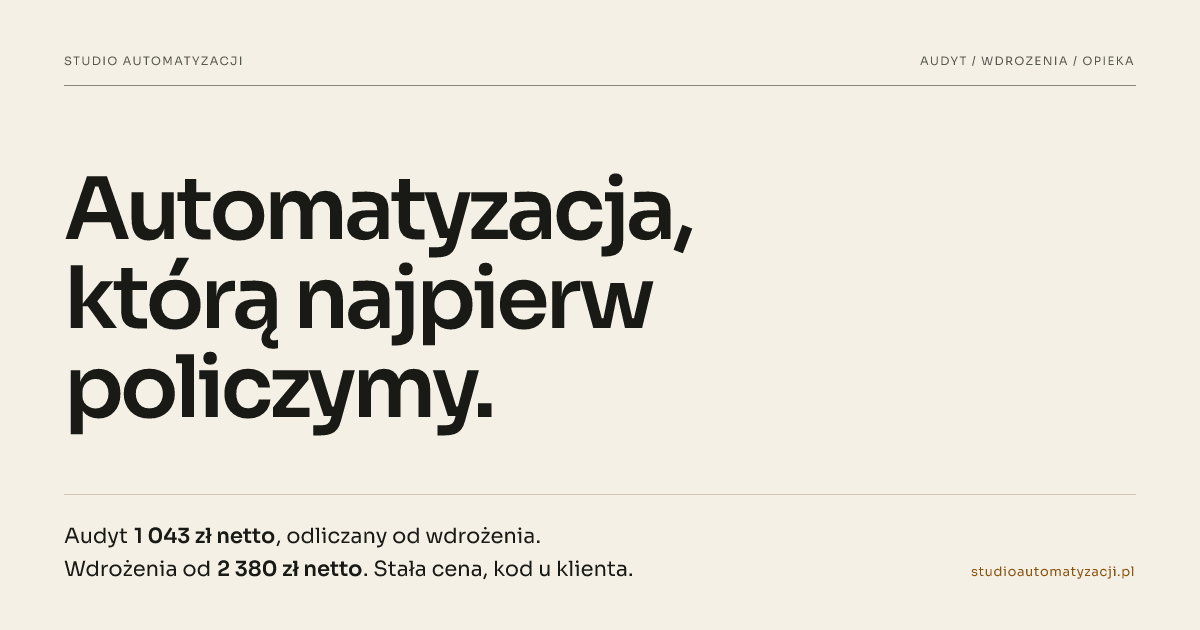
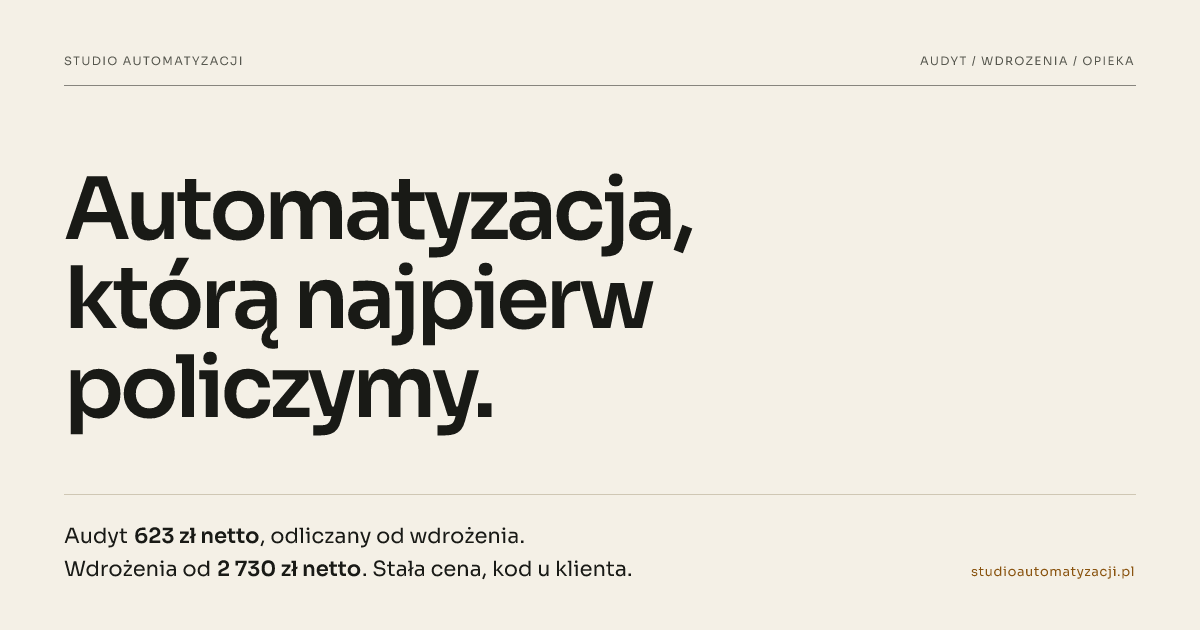
ceny: nowy model 623/2 730/6 230/10 500 i jeden plan opieki

Changed region(s): [[0.0925, 0.8143, 0.5242, 0.9349]]

diff --git a/src/data/faq.ts b/src/data/faq.ts
@@ -52,7 +52,7 @@ export const homeFaq = [
   },
   {
     q: 'Czy muszę wykupić opiekę?',
-    a: `Nie. Opieka jest opcjonalna i miesięczna: Basic ${P.careBasic} netto/mc (monitoring, do 2 h zmian, SLA 3 dni robocze, raport miesięczny) albo Standard ${P.careStandard} netto/mc (do 5 h zmian, SLA 1 dzień roboczy, przegląd kwartalny i 1 h konsultacji/mc). Bez rocznego zobowiązania, z miesięcznym wypowiedzeniem.`,
+    a: `Nie. Opieka jest opcjonalna i miesięczna: ${P.care} netto/mc (monitoring, alerty i kopie, do 5 h zmian, SLA 1 dzień roboczy, przegląd kwartalny i 1 h konsultacji/mc). Bez rocznego zobowiązania, z miesięcznym wypowiedzeniem.`,
   },
   {
     q: 'Na jakich narzędziach pracujecie?',
@@ -64,7 +64,7 @@ export const homeFaq = [
   },
   {
     q: 'Pracujecie z agencjami?',
-    a: `Tak, w modelu white-label: ${P.whiteLabel} netto za proces do 3 integracji, pod marką agencji, bez kontaktu z klientem końcowym. To osobna ścieżka na stronie /dla-agencji. Nie publikujemy rabatów wolumenowych ani pilotażowych w cenniku.`,
+    a: `Tak, w modelu white-label: ${P.whiteLabel} netto za proces do 3 integracji, ${P.whiteLabel3plus} netto przy trzech procesach lub więcej. Pod marką agencji, bez kontaktu z klientem końcowym. To osobna ścieżka na stronie /dla-agencji.`,
   },
   {
     q: 'Dlaczego nie ma tu logotypów klientów ani opinii?',
@@ -90,12 +90,12 @@ export const pricingFaq = [
     a: 'Terminy są orientacyjne: Start zwykle 5–10 dni roboczych, Growth około 3 tygodni, Scale 4–6 tygodni. Liczymy je od przekazania dostępów i danych testowych. Opóźnienia po stronie systemów klienta przesuwają termin.',
   },
   {
-    q: 'Co zawiera opieka Basic, a co Standard?',
-    a: `Basic ${P.careBasic} netto/mc: monitoring i alerty, kopie, do 2 h zmian miesięcznie, SLA reakcji 3 dni robocze, raport miesięczny. Standard ${P.careStandard} netto/mc: do 5 h zmian, SLA 1 dzień roboczy, przegląd kwartalny i 1 h konsultacji miesięcznie. Oba poziomy są miesięczne, bez rocznego zobowiązania.`,
+    q: 'Co zawiera opieka techniczna?',
+    a: `Opieka ${P.care} netto/mc: monitoring i alerty, kopie, do 5 h zmian miesięcznie, SLA reakcji 1 dzień roboczy, przegląd kwartalny i 1 h konsultacji miesięcznie. Plan jest miesięczny, bez rocznego zobowiązania.`,
   },
   {
     q: 'Czy muszę wykupić opiekę?',
-    a: 'Nie. Po wdrożeniu przekazujemy kod, dokumentację i dostępy. Jeśli Twój zespół potrafi utrzymać proces, opieka nie jest konieczna. Jeśli nie, wybierasz Basic albo Standard.',
+    a: 'Nie. Po wdrożeniu przekazujemy kod, dokumentację i dostępy. Jeśli Twój zespół potrafi utrzymać proces, opieka nie jest konieczna. Jeśli nie, dobieramy plan miesięczny.',
   },
   {
     q: 'Co, jeśli w trakcie okaże się, że potrzebny jest większy zakres?',
@@ -107,7 +107,7 @@ export const pricingFaq = [
   },
   {
     q: 'Czy white-label ma inne ceny?',
-    a: `Tak. Dla agencji jeden proces do 3 integracji kosztuje ${P.whiteLabel} netto. Szczegóły i warunki są na stronie Dla agencji. Nie publikujemy rabatów wolumenowych w cenniku.`,
+    a: `Tak. Dla agencji jeden proces do 3 integracji kosztuje ${P.whiteLabel} netto, a przy trzech procesach lub więcej ${P.whiteLabel3plus} netto za proces. Szczegóły i warunki są na stronie Dla agencji.`,
   },
   {
     q: 'Jak płacę za wdrożenie?',

diff --git a/src/data/pricing.ts b/src/data/pricing.ts
@@ -1,6 +1,7 @@
 /**
  * Jedyne źródło cen na stronie (netto, PLN). Zmiana ceny = zmiana tutaj.
- * Uzasadnienie: decyzja Chiefa 21.10.2026 — obniżka 30% od cen z 19.10.2026.
+ * Model z 21.10.2026 (raport 11:31, akceptacja Chiefa): jeden plan opieki,
+ * white-label z drugim progiem wolumenowym, audyt jako tania bramka wejściowa.
  */
 export const PRICE_UPDATED = '21.10.2026';
 
@@ -9,13 +10,14 @@ export const zl = (n: number) => `${fmt(n)} zł`;
 
 export const PRICES = {
   miniDiagnosis: 0,
-  audit: 1043,
-  start: 2380,
-  growth: 7630,
-  scaleFrom: 13930,
-  careBasic: 273,
-  careStandard: 553,
-  whiteLabel: 1680,
+  audit: 623,
+  start: 2730,
+  growth: 6230,
+  scaleFrom: 10500,
+  care: 483,
+  whiteLabel: 1750,
+  whiteLabel3plus: 1540,
+  caseStudy: 2030,
 } as const;
 
 export const P = {
@@ -24,9 +26,11 @@ export const P = {
   start: zl(PRICES.start),
   growth: zl(PRICES.growth),
   scaleFrom: `od ${zl(PRICES.scaleFrom)}`,
-  careBasic: zl(PRICES.careBasic),
-  careStandard: zl(PRICES.careStandard),
+  care: zl(PRICES.care),
+  careMc: `${zl(PRICES.care)}/mc`,
   whiteLabel: zl(PRICES.whiteLabel),
+  whiteLabel3plus: zl(PRICES.whiteLabel3plus),
+  caseStudy: zl(PRICES.caseStudy),
 };
 
 /** Zakres pakietów (bez zmian merytorycznych względem poprzedniej wersji, tylko ceny). */

diff --git a/README.md b/README.md
@@ -28,13 +28,13 @@ Formularz `/kontakt` ma pięć pól: firma lub imię, e-mail (wymagany), proces,
 ## Strony
 
 - `/` — strona główna: e-commerce, problemy, usługi, mini-diagnoza, ścieżka 3 kroków, pakiety, opieka, scenariusz modelowy, kiedy nie, FAQ.
-- `/ile-kosztuje` — cennik, porównanie pakietów, opieka Basic/Standard, zależności cenowe, kiedy automatyzacja się nie opłaca.
+- `/ile-kosztuje` — cennik, porównanie pakietów, opieka techniczna, zależności cenowe, kiedy automatyzacja się nie opłaca.
 - `/audyt` — bezpłatna mini-diagnoza e-mailem i płatny audyt (cena w `src/data/pricing.ts`, odliczany od wdrożenia), porównanie obu usług.
 - `/wdrozenia` — pakiety Start, Growth, Scale i porównanie.
-- `/opieka` — opieka Basic i Standard (ceny w `src/data/pricing.ts`).
+- `/opieka` — opieka techniczna (cena w `src/data/pricing.ts`).
 - `/dla-agencji` — white-label (cena w `src/data/pricing.ts`).
 - `/zaufanie` — RODO, NDA, AI Act, własność kodu, monitoring, logi, jak pracujemy.
-- `/case-studies` — jawne zasady publikacji realizacji, bez wymyślonych case studies.
+- `/case-studies` — trzy studia przypadku: prototyp monitoringu cen i dwa typowe zakresy wdrożeń, z jawnym oznaczeniem dowodu i granic.
 - `/o-studiu`, `/kontakt`, `/polityka-prywatnosci`, `/regulamin`, `/404`.
 - `/o-mnie` — przekierowanie na `/o-studiu`.
 
